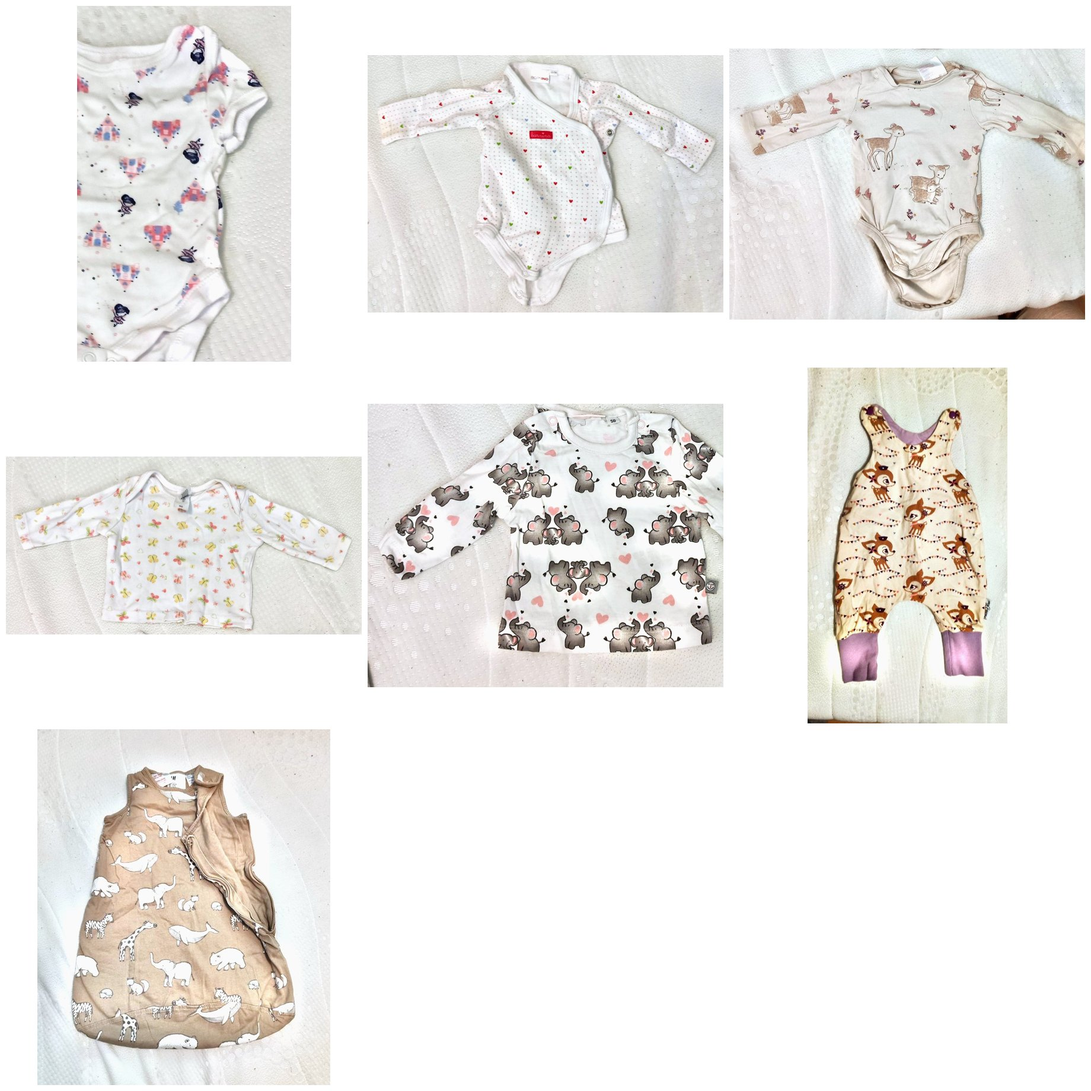
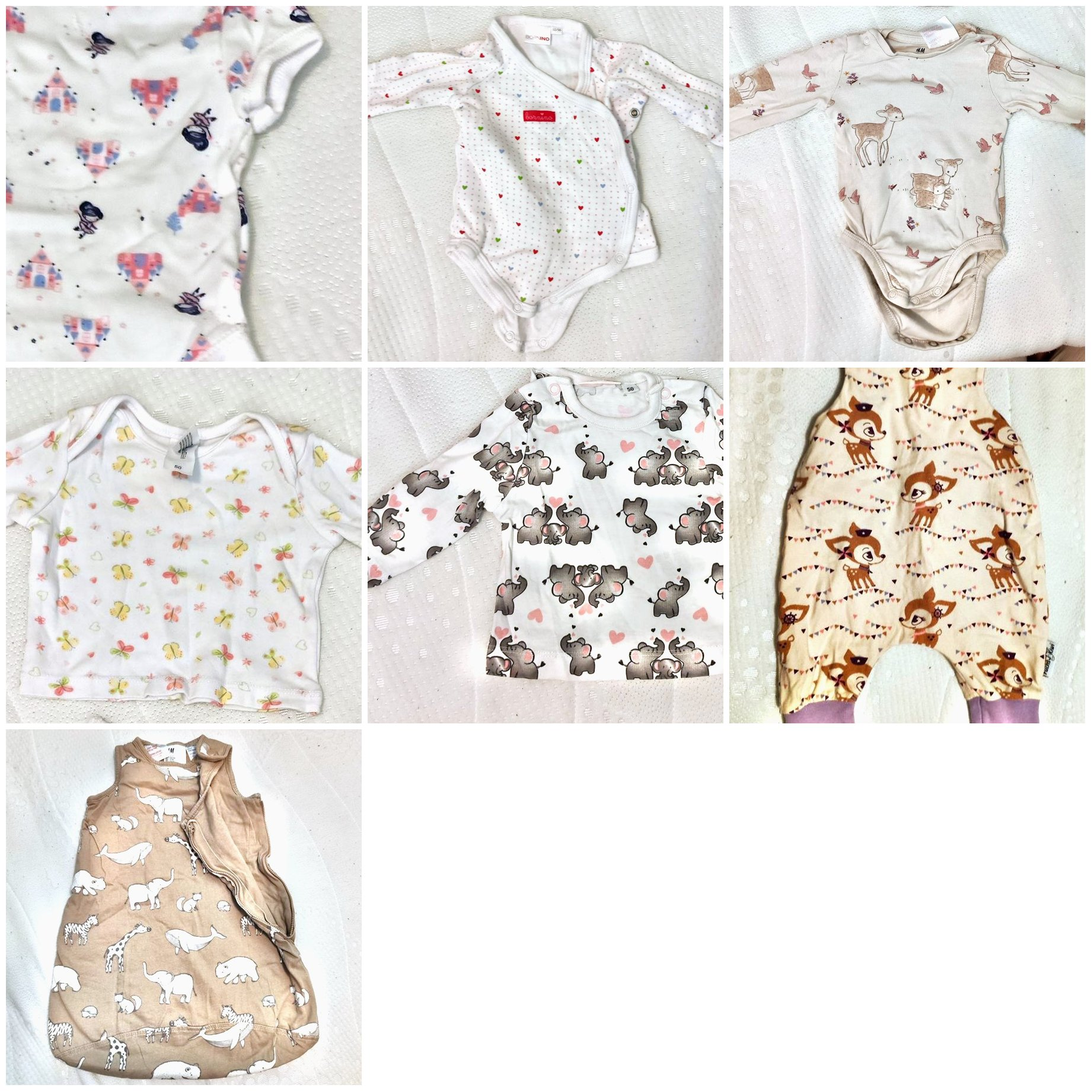
Kollagen: Kacheln quadratisch zugeschnitten
Claude-Session: https://claude.ai/code/session_01JEXW45GuLk9Rvbj3Lw3mTj

diff --git a/babyklamotten/kollage.py b/babyklamotten/kollage.py
@@ -32,7 +32,7 @@ def kollage(stuecke: list, ziel: Path) -> None:
     bild_gesamt = Image.new("RGB", (breite, hoehe), "white")
     for i, stueck in enumerate(stuecke):
         with Image.open(foto_pfad(stueck["foto_gesamt"])) as bild:
-            kachel = ImageOps.pad(bild.convert("RGB"), (KACHEL, KACHEL), color="white")
+            kachel = ImageOps.fit(bild.convert("RGB"), (KACHEL, KACHEL))
         x = ABSTAND + (i % spalten) * (KACHEL + ABSTAND)
         y = ABSTAND + (i // spalten) * (KACHEL + ABSTAND)
         bild_gesamt.paste(kachel, (x, y))
